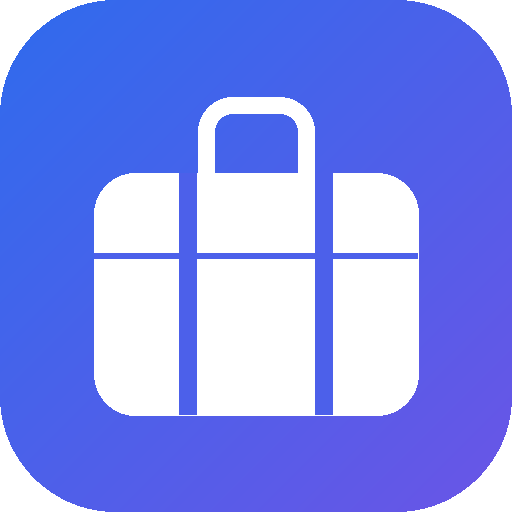
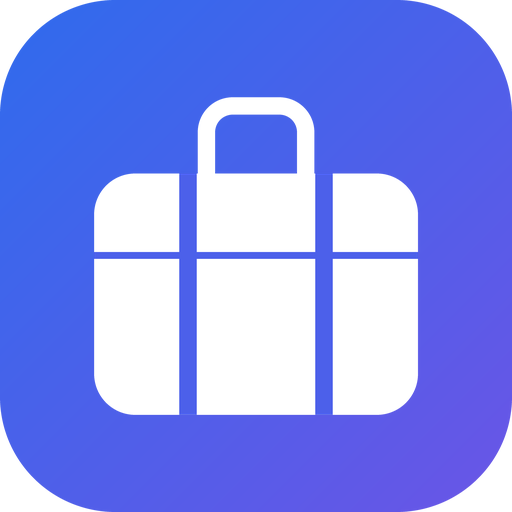
fix: 修复 Via/WebView 强制深色改写，并按独立评审修掉 4 处缺陷
用户报"手机菜单里没有安装应用"：查明 Via 走系统 WebView、厂商未实现 PWA 安装入口，
属预期行为而非配置错误；但截图暴露出真缺陷——纯亮色页面被算法式深色改写成黑底。

- 源文件加 <meta name="color-scheme" content="light only"> 与 CSS color-scheme: light only
  （实测 light 不带 only 无效，only 是必需关键字）；不引入任何文件依赖，单文件属性保持
- build_index.py 护栏加宽：原先只认 theme-color 一个串，源文件被塞 <link rel="manifest">
  会静默产出双 manifest 页；改为 7 个标记全查，实测绕过场景现返回 rc=1
- make_icons.py 加 8x 超采样 + LANCZOS：原图标 alpha 只有 0/255 两值、完全无抗锯齿，
  favicon-32 轮廓读成八边形；现 icon-192/512、favicon-32 分别有 692/2016/76 个半透明像素
- manifest.json 删掉 orientation:portrait：不在需求内，且会把已安装应用锁死竖屏，
  而页面本身是响应式带桌面布局
- build_index.py 补 stderr 编码包装：护栏中文报错在重定向/CI 捕获时按 GBK 输出成乱码

文档纠错（两处是我上一轮的错误结论）：
- 兼容性门槛由 "Chromium 69+" 更正为 "Chromium 84+ / iOS Safari 15.4+"。
  69+ 是扫描脚本正则 bug 造出来的假结论：gap 探针写成行首锚定 ^\s*gap\s*:，
  而 16 处 gap: 全在行中间，整段漏报。已给每个探针加正则 vs 子串交叉校验防复发。
- A/B 数字由 (241,243,248) 更正为全图普查主色 (244,246,251)，即精确设计色；
  浏览器支持矩阵拆清移动端与桌面端（桌面 Edge/Brave 是真独立应用，与 Android 相反）

验证：.verify/run.ps1 18 状态 ALL-GREEN（src=F614C7B3 failed=0）；
强制深色 A/B 用 --force-dark-mode --enable-features=WebContentsForceDark 实测，
两种状态下各区域像素数完全相同，证明版式未动、仅配色不再被改写。

Changed region(s): [[0.25, 0.7812, 0.7812, 0.8125]]

diff --git a/index.html b/index.html
@@ -11,9 +11,12 @@
 <link rel="manifest" href="./manifest.json">
 <link rel="icon" type="image/png" sizes="32x32" href="./icons/favicon-32.png">
 <link rel="apple-touch-icon" href="./icons/apple-touch-icon.png">
+<meta name="color-scheme" content="light only">
 <title>出行清单 · 打包不遗漏</title>
 <style>
   :root{
+    /* 纯亮色配色，无暗色变体：显式拒绝浏览器算法式深色改写 */
+    color-scheme:light only;
     --bg:#f4f6fb; --card:#fff; --ink:#141a2b; --muted:#5b6473; --line:#e6e9f2;
     --primary:#2f6bed; --primary-soft:#eef3ff; --primary-dark:#1f4cc0;
     --ok:#12a06a; --danger:#c5352f; --danger-soft:#fdeeee;

diff --git a/出行清单MVP.html b/出行清单MVP.html
@@ -3,9 +3,12 @@
 <head>
 <meta charset="utf-8">
 <meta name="viewport" content="width=device-width, initial-scale=1, viewport-fit=cover">
+<meta name="color-scheme" content="light only">
 <title>出行清单 · 打包不遗漏</title>
 <style>
   :root{
+    /* 纯亮色配色，无暗色变体：显式拒绝浏览器算法式深色改写 */
+    color-scheme:light only;
     --bg:#f4f6fb; --card:#fff; --ink:#141a2b; --muted:#5b6473; --line:#e6e9f2;
     --primary:#2f6bed; --primary-soft:#eef3ff; --primary-dark:#1f4cc0;
     --ok:#12a06a; --danger:#c5352f; --danger-soft:#fdeeee;

diff --git a/make_icons.py b/make_icons.py
@@ -5,6 +5,10 @@
 - maskable-512        : purpose=maskable，满幅不透明，图形收在 80% 安全区内
 - apple-touch-icon    : 180 满幅不透明（iOS 自己裁圆，透明区会变白边）
 - favicon-32          : 32 圆角
+
+抗锯齿：ImageDraw 画的圆角/直线在最终尺寸下是硬边缘（alpha 只有 0 和 255 两值），
+32px 下轮廓会读成八边形。因此图形层与圆角遮罩都在 8x 超采样画布上绘制，
+再用 LANCZOS 降采样，让边缘产生真实灰度过渡。
 """
 import os
 from PIL import Image, ImageDraw
@@ -13,8 +17,9 @@ ROOT = os.path.dirname(os.path.abspath(__file__))
 OUT = os.path.join(ROOT, "icons")
 os.makedirs(OUT, exist_ok=True)
 
-C1 = (0x2F, 0x6B, 0xED)   # --primary
-C2 = (0x6A, 0x55, 0xE6)   # hero 渐变末端
+SS = 8                      # 超采样倍数
+C1 = (0x2F, 0x6B, 0xED)     # --primary
+C2 = (0x6A, 0x55, 0xE6)     # hero 渐变末端
 WHITE = (255, 255, 255, 255)
 
 
@@ -23,6 +28,7 @@ def lerp(a, b, t):
 
 
 def gradient(size):
+    """底色渐变按最终尺寸逐像素生成（26 万次的量级，够快）。"""
     img = Image.new("RGB", (size, size))
     px = img.load()
     span = 2 * (size - 1) or 1
@@ -32,9 +38,8 @@ def gradient(size):
     return img
 
 
-def draw_suitcase(img, frac):
-    """frac: 图形占画布的比例。maskable 要缩小以留安全区。"""
-    size = img.size[0]
+def draw_suitcase(dr, size, frac):
+    """frac: 图形占画布的比例。maskable 要缩小以留 80% 安全区。"""
     cx = cy = size / 2
     gh = size * frac
     handle_h = gh * 0.24
@@ -42,42 +47,42 @@ def draw_suitcase(img, frac):
     body_w = gh * 1.02
     top = cy - gh / 2
     body_top = top + handle_h
-    r = ImageDraw.Draw(img)
+    mid = lerp(C1, C2, 0.5) + (255,)
 
-    # 提手：只画轮廓，下半段被箱体盖住
+    # 提手：只画轮廓，下半段会被箱体盖住
     hw = body_w * 0.36
-    r.rounded_rectangle(
+    dr.rounded_rectangle(
         [cx - hw / 2, top, cx + hw / 2, body_top + body_h * 0.18],
         radius=hw * 0.30, outline=WHITE, width=max(2, int(gh * 0.055)),
     )
     # 箱体
-    r.rounded_rectangle(
+    dr.rounded_rectangle(
         [cx - body_w / 2, body_top, cx + body_w / 2, body_top + body_h],
         radius=body_h * 0.17, fill=WHITE,
     )
-    # 两条竖向束带：用底色挖出来，形成行李箱的分格观感
-    mid = lerp(C1, C2, 0.5) + (255,)
+    # 两条竖向束带：用渐变中位色挖出来，形成行李箱分格观感
     sw = gh * 0.055
     for dx in (-body_w * 0.21, body_w * 0.21):
-        r.rectangle([cx + dx - sw / 2, body_top, cx + dx + sw / 2, body_top + body_h], fill=mid)
+        dr.rectangle([cx + dx - sw / 2, body_top, cx + dx + sw / 2, body_top + body_h], fill=mid)
     # 拉链横线
-    r.line([cx - body_w / 2, body_top + body_h * 0.34, cx + body_w / 2, body_top + body_h * 0.34],
-           fill=mid, width=max(1, int(gh * 0.022)))
-
-
-def rounded_alpha(size, radius_frac):
-    mask = Image.new("L", (size, size), 0)
-    ImageDraw.Draw(mask).rounded_rectangle(
-        [0, 0, size - 1, size - 1], radius=int(size * radius_frac), fill=255)
-    return mask
+    dr.line([cx - body_w / 2, body_top + body_h * 0.34, cx + body_w / 2, body_top + body_h * 0.34],
+            fill=mid, width=max(1, int(gh * 0.022)))
 
 
 def make(size, *, full_bleed=False, glyph=0.62, radius=0.225):
-    img = gradient(size).convert("RGBA")
-    draw_suitcase(img, glyph)
+    hi = size * SS
+    base = gradient(size).convert("RGBA")
+
+    layer = Image.new("RGBA", (hi, hi), (0, 0, 0, 0))
+    draw_suitcase(ImageDraw.Draw(layer), hi, glyph)
+    out = Image.alpha_composite(base, layer.resize((size, size), Image.LANCZOS))
+
     if not full_bleed:
-        img.putalpha(rounded_alpha(size, radius))
-    return img
+        mask = Image.new("L", (hi, hi), 0)
+        ImageDraw.Draw(mask).rounded_rectangle(
+            [0, 0, hi - 1, hi - 1], radius=int(hi * radius), fill=255)
+        out.putalpha(mask.resize((size, size), Image.LANCZOS))
+    return out
 
 
 targets = [

diff --git a/build_index.py b/build_index.py
@@ -10,6 +10,9 @@ import os
 import sys
 
 sys.stdout = io.TextIOWrapper(sys.stdout.buffer, encoding="utf-8", errors="backslashreplace")
+# 护栏的报错信息走 stderr；不包这层，重定向或 CI 捕获时中文会按 GBK 输出成乱码，
+# 而"报错中止"能给人看的只有这句话。
+sys.stderr = io.TextIOWrapper(sys.stderr.buffer, encoding="utf-8", errors="backslashreplace")
 
 ROOT = os.path.dirname(os.path.abspath(__file__))
 SRC = os.path.join(ROOT, "出行清单MVP.html")
@@ -29,12 +32,26 @@ BLOCK = """<meta name="theme-color" content="#2f6bed">
 
 MARKER = '<meta name="theme-color" content="#2f6bed">'
 
+# 护栏要覆盖所有会破坏"单文件零依赖"的痕迹，不能只认 theme-color 一个串：
+# 否则源文件被塞进 <link rel="manifest"> 时会被静默放过，产出双 manifest 页。
+GUARD_TOKENS = (
+    "<link",
+    'rel="manifest"',
+    "apple-touch-icon",
+    "./icons/",
+    "theme-color",
+    "mobile-web-app-capable",
+    "manifest.json",
+)
+
 
 def build():
     html = open(SRC, encoding="utf-8").read()
 
-    if MARKER in html:
-        raise SystemExit("SRC 已被注入过，中止：源文件必须保持单文件零依赖")
+    leaked = [t for t in GUARD_TOKENS if t in html]
+    if leaked:
+        raise SystemExit("SRC 含部署层专用标记，中止（源文件必须保持单文件零依赖）："
+                         + " / ".join(leaked))
     if html.count(ANCHOR) != 1:
         raise SystemExit("找不到唯一 viewport 锚点，源文件结构已变，需人工确认注入位置")
 

diff --git a/README.md b/README.md
@@ -20,22 +20,69 @@
 
 ## 在手机上使用
 
-### 方式一：装成主屏幕 App（推荐，需 HTTPS）
+### 方式一：装成主屏幕 App（**取决于浏览器，不是所有浏览器都支持**）
 
-用手机浏览器打开 https://LIUYE061.github.io/travel-list/ ：
+用手机浏览器打开 https://liuye061.github.io/travel-list/ ，**移动端**能力差异如下
+（本表只谈手机；桌面端另说 —— Windows/macOS 上的 Edge、Brave 装出来是真独立应用，
+有独立窗口和任务栏入口，与 Android 上的表现相反）：
 
-| 系统 | 操作 | 效果 |
-|------|------|------|
-| iPhone（Safari） | 分享 → **添加到主屏幕** | 桌面出现行李箱图标，点开是全屏、无地址栏 |
-| Android（Chrome / Edge） | 菜单 ⋮ → **添加到主屏幕** 或 **安装应用** | 同上，并可作为独立应用出现在应用列表 |
+| 移动端浏览器 / 环境 | 能否装成独立 App | 说明 |
+|---------------|------------------|------|
+| iOS Safari | ✅ | 分享 → **添加到主屏幕**，全屏无地址栏 |
+| Android Chrome（有 GMS） | ✅ 真 WebAPK | 菜单 ⋮ → **安装应用**；无 GMS 的机器会退化成快捷方式 |
+| Android Samsung Internet | ✅ 真 WebAPK | |
+| Android Edge / Firefox / Brave / Opera | ⚠ 仅快捷方式 | 图标带浏览器角标，点开仍在浏览器里 |
+| **Via、X浏览器** | ❌ | 走系统 WebView，厂商未实现安装入口，菜单里**根本没有这一项** |
+| 夸克 / UC / QQ / 百度 | ❌ 基本不支持 | 最多存成普通书签快捷方式 |
+| **微信 / 钉钉 / 企业微信内打开** | ❌ 完全不支持 | 内置 WebView 不暴露安装能力 |
+
+所以**不要把"装成 App"当成交付前提**。本项目的交付标准是：页面在任何现代浏览器里都能正常
+打开、勾选、存数据；PWA 安装只是 Chrome/Samsung/iOS 上的**额外增强**。
+
+好消息是页面本身兼容性很宽，但**门槛不是 `env(safe-area-inset)`** —— 实测扫描后真正的天花板
+是 **flex 容器的 `gap`（16 处）**：
+
+| 维度 | 结论 |
+|------|------|
+| JS | **纯 ES5**：无箭头函数、无 `const`/`let`、无模板串、无展开、无可选链、无 `class` |
+| CSS 最高门槛 | flex `gap` → **Chromium 84 / Safari 14.1（iOS 14.5）**；`overflow-wrap:anywhere` → **Safari 15.4** |
+| 综合 | **完整渲染需 Chromium 84+ / iOS Safari 15.4+** |
+
+低于该版本的退化是"**能用但变形**"，不是白屏：flex `gap` 失效会让天数快捷档、步进器、
+操作按钮组**互相贴在一起**；Safari 低于 15.4 时长物品名不再断行。
+
+> 这条结论此前被写成"约 Chromium 69+"，是错的：当时的扫描脚本把 `gap` 的正则写成行首锚定
+> `^\s*gap\s*:`，而代码里 16 处 `gap:` 全在行中间，于是全部漏报。现已给每个探针加了
+> "正则计数 vs 朴素子串计数"的交叉校验，两者不一致就直接报错退出，防止再次静默漏报。
 
 已配 `manifest.json`（`display: standalone`、192/512/maskable 三套图标、`theme_color`）
-以及 iOS 侧的 `apple-touch-icon` + `apple-mobile-web-app-capable`，两端都能拿到独立图标与全屏外壳。
+以及 iOS 侧的 `apple-touch-icon` + `apple-mobile-web-app-capable`，在支持的浏览器上会自动出现安装入口。
 按你的选择**没有引入 service worker**，所以不做离线缓存 —— 代价是改版后刷新即生效，不会有旧缓存赖着不走。
 
 > **iOS 的关键差异**：从主屏幕图标启动的网页 App 与 Safari 标签页是**两个独立存储容器**。
-> 在 Safari 里勾到一半的清单，点主屏幕图标进去是空的（反之亦然）。首次使用就固定选一种入口。
+> 在 Safari 里勾到一半的清单，点主屏幕图标进去是空的（反之亦然）。首次使用请固定选一种入口。
 > Android 上已安装应用与浏览器同源共享，不受影响。
+
+### 关于深色模式：页面已显式声明"只支持亮色"
+
+源文件里有 `<meta name="color-scheme" content="light only">` 与 CSS `color-scheme: light only`。
+这行声明的作用是**拒绝浏览器的算法式深色改写**：本应用是纯亮色配色（没有 `prefers-color-scheme`
+暗色变体），若不声明，Chromium/WebView 的"夜间模式"会自行把 `#f4f6fb` 改写成黑底、把文字翻白，
+而渐变和彩色按钮不受影响 —— 结果是配色被改得半明半暗、并非设计意图。
+
+已用 `--force-dark-mode --enable-features=WebContentsForceDark` 做过 A/B 实测。
+数字来自**全图颜色普查**（取占比最高的主色），不是挑几个采样点看：
+
+| 变体 | 页面底色 | 卡片底色 |
+|------|----------|----------|
+| 无任何声明 | `(32,34,38)` 21.7% | `(18,18,18)` 46.3% —— 被改写 |
+| `color-scheme: light`（**不带 only**） | `(32,34,38)` | `(18,18,18)` —— **照样被改写** |
+| `color-scheme: light only`（现状） | `(244,246,251)` 21.7% | `(255,255,255)` 46.4% —— 精确等于设计色 |
+
+三点值得注意：`only` 是关键，去掉它修复就失效；`<meta>` 与 CSS 任一单独存在都生效，双写是为兼容旧内核；
+两种状态下各区域像素数完全相同（109225 / 18452），说明**版式一字未动，只有配色被改写** —— 这才是干净的 A/B。
+
+注意个别浏览器若用注入 CSS 的土办法实现夜间模式，可能仍会无视该声明 —— 那需要用户在浏览器内关闭夜间模式。
 
 ### 方式二：局域网直连（不依赖外网，适合自己立刻在真机上验证）
 

diff --git a/MVP使用说明.md b/MVP使用说明.md
@@ -57,7 +57,7 @@
 powershell -NoProfile -ExecutionPolicy Bypass -File ".verify\run.ps1"
 ```
 
-一次跑完 18 个状态：每个状态先 `--dump-dom` 读回断言结果（写在 `<title>` 里），再出图。全绿时末行输出 `ALL-GREEN`，任一断言失败则退出码 1 并列出失败项。**输出图名以交付文件的 SHA-256 前 8 位开头**（当前 `E6385B63`），图和产物不配对时一眼可见——这条是评审指出的真问题：当时最后改的一行没有进任何截图。
+一次跑完 18 个状态：每个状态先 `--dump-dom` 读回断言结果（写在 `<title>` 里），再出图。全绿时末行输出 `ALL-GREEN`，任一断言失败则退出码 1 并列出失败项。**输出图名以交付文件的 SHA-256 前 8 位开头**（本轮为 `F614C7B3`；下表图名沿用上一轮 `E6385B63` 前缀，重跑即整体替换），图和产物不配对时一眼可见——这条是评审指出的真问题：当时最后改的一行没有进任何截图。
 
 ### 断言层
 
